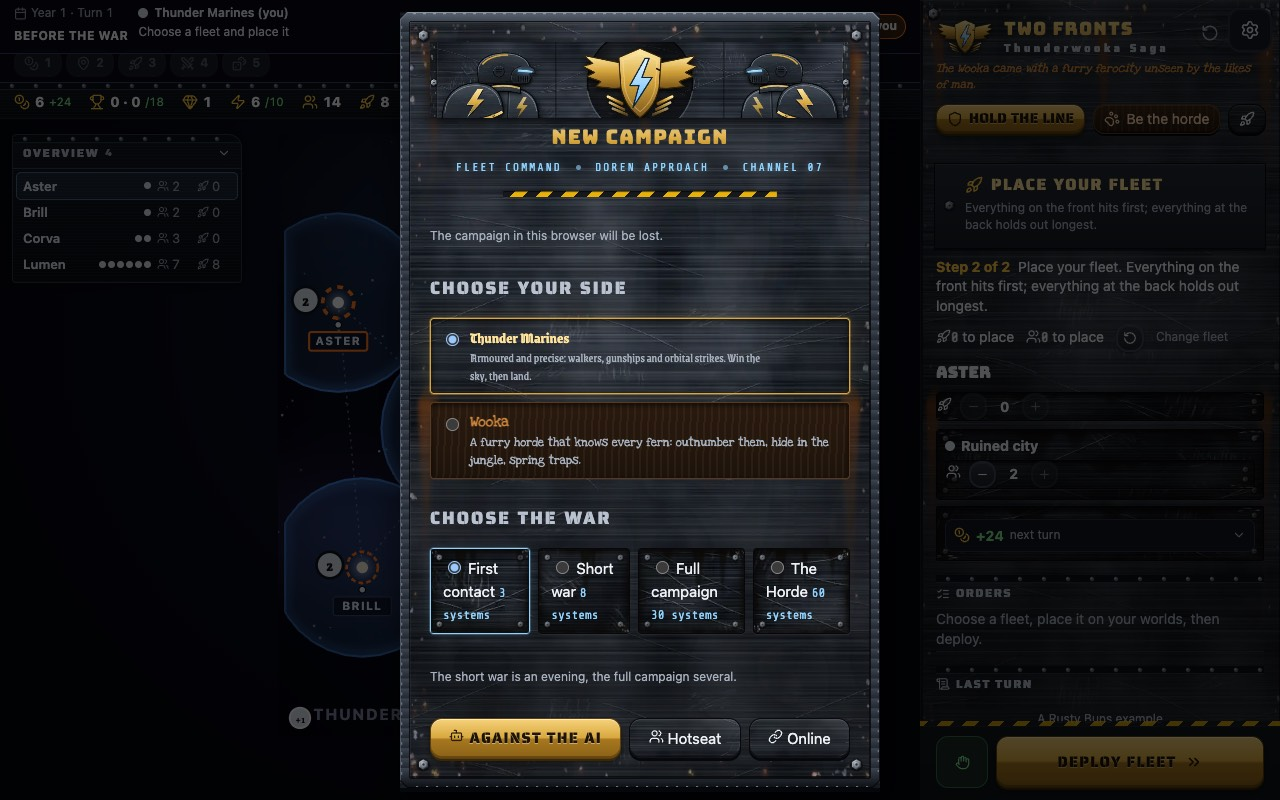
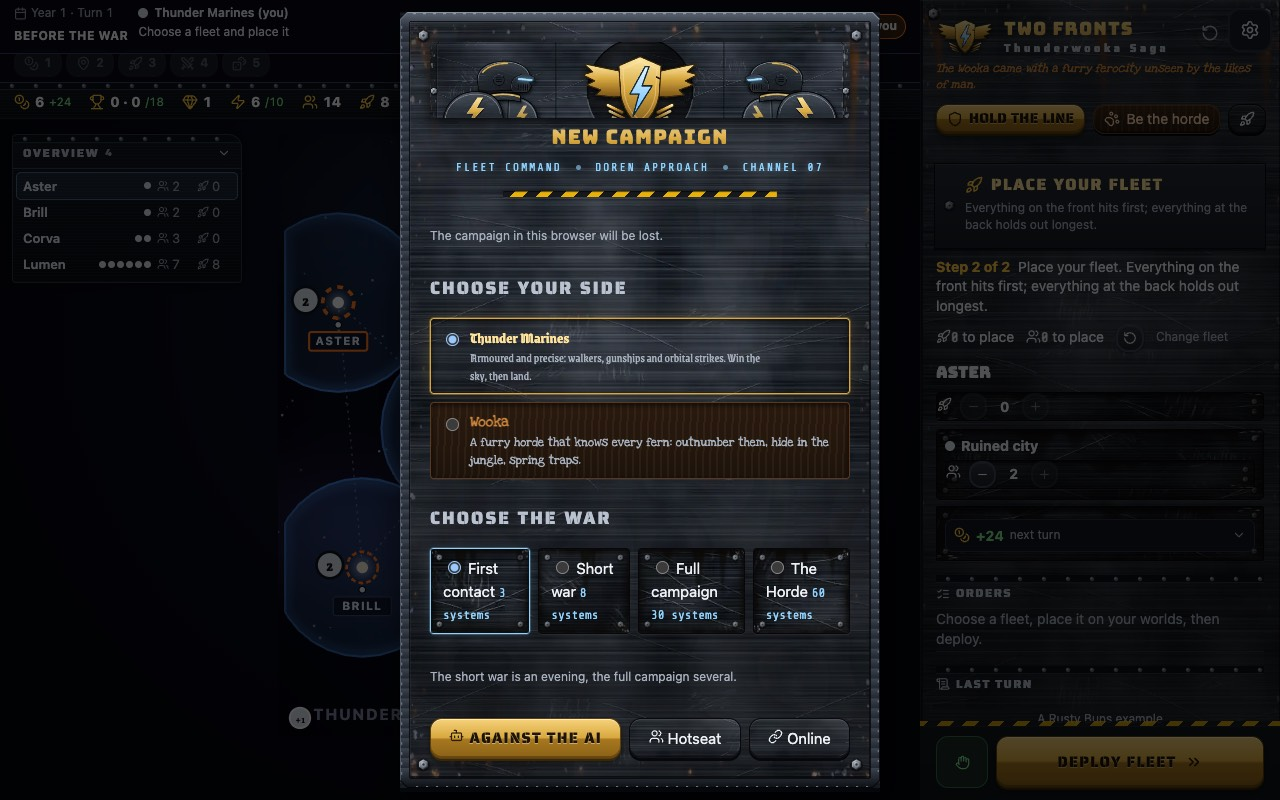
Two Fronts menus round 6: rust only from the top bolts, darker chips, the lobby crop shows the helmets (Part of #3613)

Changed region(s): [[0.3438, 0.0625, 0.6562, 0.1562], [0.3125, 0.5, 0.3438, 0.5938], [0.6562, 0.5, 0.6875, 0.5625]]

diff --git a/apps/two-fronts/scripts/plates-paint.js b/apps/two-fronts/scripts/plates-paint.js
@@ -270,9 +270,9 @@ async (insigniaSvg, medals) => {
     g.putImageData(img, 0, 0);
     // rust weeping from the bolts: an orange-brown streak that runs down and fades, a darker core in it
     g.filter = "blur(2px)";
-    for (const [bx, by] of [[22, 22], [S - 22, 22], [S * 0.5, 22], [22, S * 0.5], [S - 22, S * 0.5]]) {
+    for (const [bx, by] of [[22, 22], [S - 22, 22], [S * 0.5, 22]]) {
       for (let k = 0; k < 2 + Math.floor(r() * 2); k++) {
-        const x = bx + (r() - 0.5) * 14, len = 50 + r() * 120, w = 6 + r() * 8, sway = (r() - 0.5) * 10;
+        const x = bx + (r() - 0.5) * 14, len = 40 + r() * 80, w = 4 + r() * 5, sway = (r() - 0.5) * 10;
         const gr = g.createLinearGradient(0, by, 0, by + len); gr.addColorStop(0, "rgba(104,56,24,0.4)"); gr.addColorStop(0.5, "rgba(80,46,22,0.2)"); gr.addColorStop(1, "rgba(80,44,20,0)");
         g.fillStyle = gr; g.beginPath(); g.moveTo(x - w, by); g.bezierCurveTo(x - w * 0.7 + sway, by + len * 0.4, x - w * 0.3 - sway, by + len * 0.7, x + sway * 0.5, by + len);
         g.bezierCurveTo(x + w * 0.3 - sway, by + len * 0.7, x + w * 0.7 + sway, by + len * 0.4, x + w, by); g.fill();
@@ -285,7 +285,7 @@ async (insigniaSvg, medals) => {
       const pts = 5 + Math.floor(r() * 4), path = () => { g.beginPath(); for (let k = 0; k < pts; k++) { const a = (k / pts) * Math.PI * 2, rr = rad * (0.5 + r() * 0.8); g[k ? "lineTo" : "moveTo"](x + Math.cos(a) * rr, y + Math.sin(a) * rr * 0.7); } g.closePath(); };
       if (r() < 0.35) { g.save(); g.filter = "blur(1.5px)"; g.beginPath(); g.arc(x, y + 1, rad * 1.5, 0, Math.PI * 2); g.fillStyle = "rgba(118,62,24,0.3)"; g.fill(); g.restore(); }
       path(); g.fillStyle = "rgba(0,0,0,0.5)"; g.save(); g.translate(0, 1); g.fill(); g.restore();
-      path(); g.fillStyle = `rgba(${196 + r() * 30},${204 + r() * 26},${214 + r() * 22},${0.2 + r() * 0.3})`; g.fill();
+      path(); g.fillStyle = `rgba(${120 + r() * 30},${128 + r() * 26},${138 + r() * 22},${0.25 + r() * 0.3})`; g.fill();
     };
     for (let k = 0; k < 150; k++) {
       const side = Math.floor(r() * 4), t = r() < 0.4 ? (r() < 0.5 ? r() * 0.12 : 1 - r() * 0.12) : r(), d = 2 + Math.pow(r(), 2.6) * 16;

diff --git a/apps/two-fronts/src/styles.css b/apps/two-fronts/src/styles.css
@@ -931,7 +931,7 @@ body .gc-dialog input[type=range] { accent-color: var(--brass); }
 /* The hero plate leads the title and the lobby; the name and the readout sit under it. */
 .crest img.hero { width: 100%; height: auto; max-width: 440px; aspect-ratio: 960 / 300; filter: drop-shadow(0 4px 6px rgb(0 0 0 / 0.7)); }
 .crest.title img.hero { width: 100%; height: auto; }
-.crest:not(.title) img.hero { width: 100%; height: 76px; object-fit: cover; object-position: center 45%; }
+.crest:not(.title) img.hero { width: 100%; height: 76px; object-fit: cover; object-position: center 30%; }
 
 /* Inner cards are sub-plates set into the plate: sunken steel, four small bolts, the readout's scanlines over it. */
 .choices label, .preset, .vote-card, .sectors li, .detail .act, .status {
